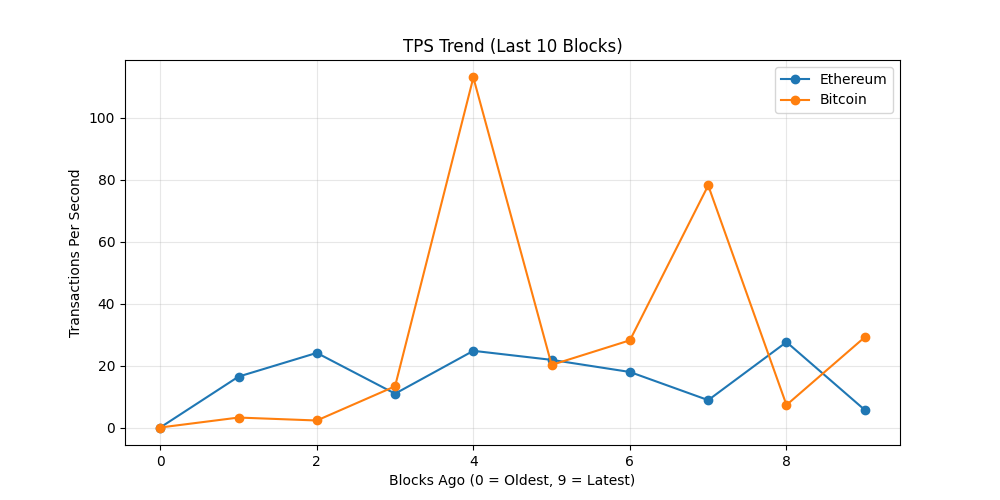
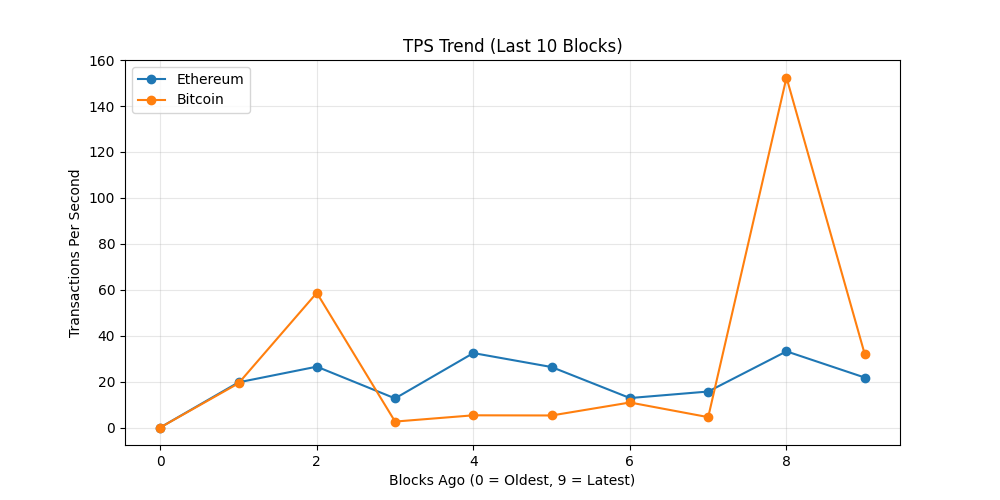
chore: update on-chain dashboard

diff --git a/README.md b/README.md
@@ -19,7 +19,7 @@ The README itself acts as the dashboard and is regenerated automatically on a 6 
 demonstrating a production-style, infrastructure-focused observability workflow rather
 than a traditional UI-driven approach.
 
-_Last updated: 2026-05-12 09:11 UTC_
+_Last updated: 2026-05-12 14:48 UTC_
 
 ## API Usage (GetBlock.io)
 - Calls used: **24**
@@ -27,8 +27,8 @@ _Last updated: 2026-05-12 09:11 UTC_
 ## Network Metrics
 | Chain | Block Height | TX Count | TPS (10 blk avg) | Block Util | Avg Fee |
 |------|-------------|----------|------------------|------------|---------|
-| Ethereum | 25078057 | 68 | 5.67 | 13.58% | 0.8 Gwei |
-| Bitcoin | 949058 | 6326 | 29.15 | 99.8% | N/A |
+| Ethereum | 25079732 | 261 | 21.75 | 33.33% | 1.3 Gwei |
+| Bitcoin | 949090 | 7080 | 31.89 | 99.8% | N/A |
 
 ## Visuals
 ### Transactions Trend
@@ -43,8 +43,7 @@ _Last updated: 2026-05-12 09:11 UTC_
 ## Whale Alerts (latest block)
 - Transaction hashes are truncated for readability.
 - Full hashes are available in `dashboards/metrics.json`
-- Bitcoin | 113.99 BTC | `17b3fd2b0e1b…`
-- Bitcoin | 2886.18 BTC | `2484e3cbe926…`
+No whale-sized transfers detected in latest blocks.
 
 ## Run locally
 
